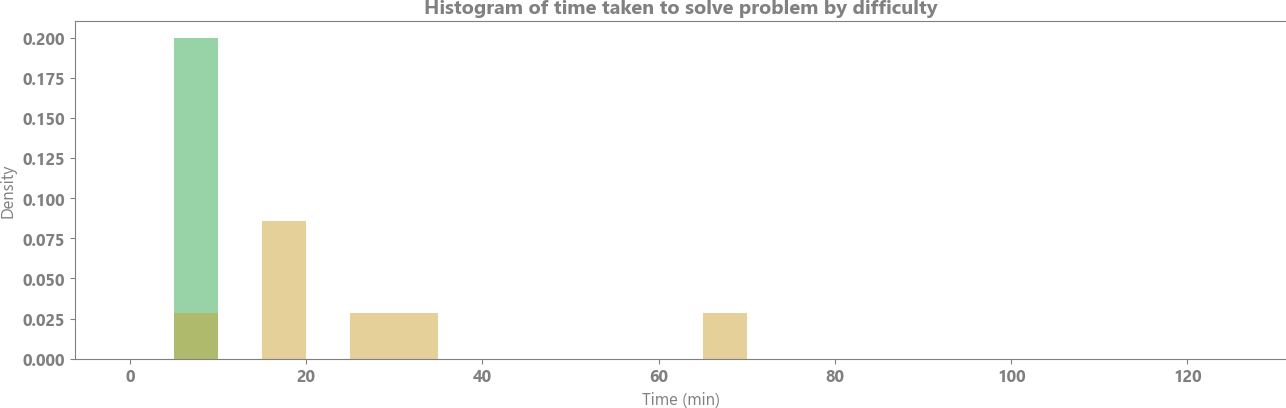
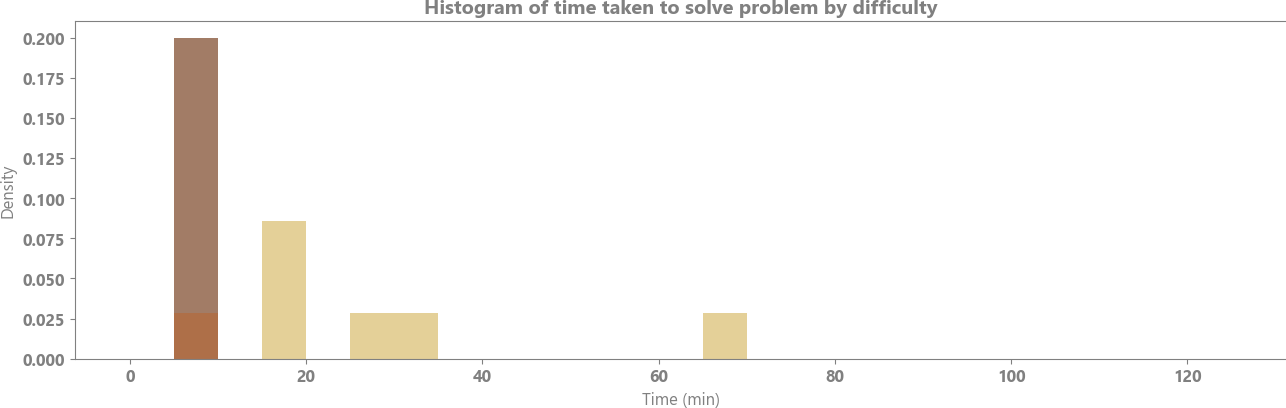
reenabled hard problems on analysis.py

Changed region(s): [[0.1244, 0.0882, 0.1866, 0.8824]]

diff --git a/analysis.py b/analysis.py
@@ -83,7 +83,7 @@ saveplot("pie_attempt.png")
 plt.figure(figsize=(13, 4))
 plt.hist(df[df["Difficulty"]=="Easy"]["Stopwatch"], bins=range(0,130,5), facecolor=Colors.GREEN, density=1, alpha=0.5)
 plt.hist(df[df["Difficulty"]=="Medium"]["Stopwatch"], bins=range(0,130,5), facecolor=Colors.YELLOW, density=1, alpha=0.5)
-# plt.hist(df[df["Difficulty"]=="Hard"]["Stopwatch"], bins=range(0,120,5), facecolor=Colors.RED, density=1, alpha=0.5)
+plt.hist(df[df["Difficulty"]=="Hard"]["Stopwatch"], bins=range(0,120,5), facecolor=Colors.RED, density=1, alpha=0.5)
 plt.tight_layout()
 text_objs = []
 text_objs.append(plt.title("Histogram of time taken to solve problem by difficulty", fontweight="bold"))
